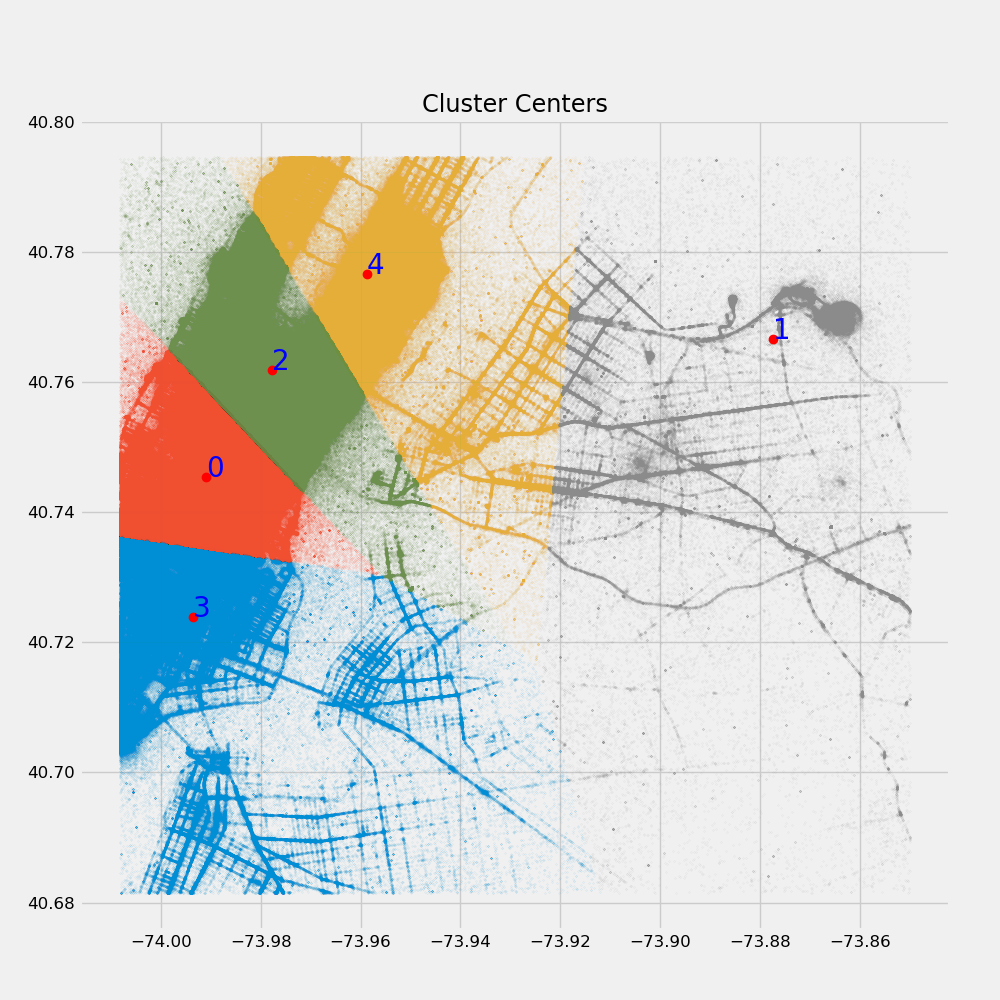
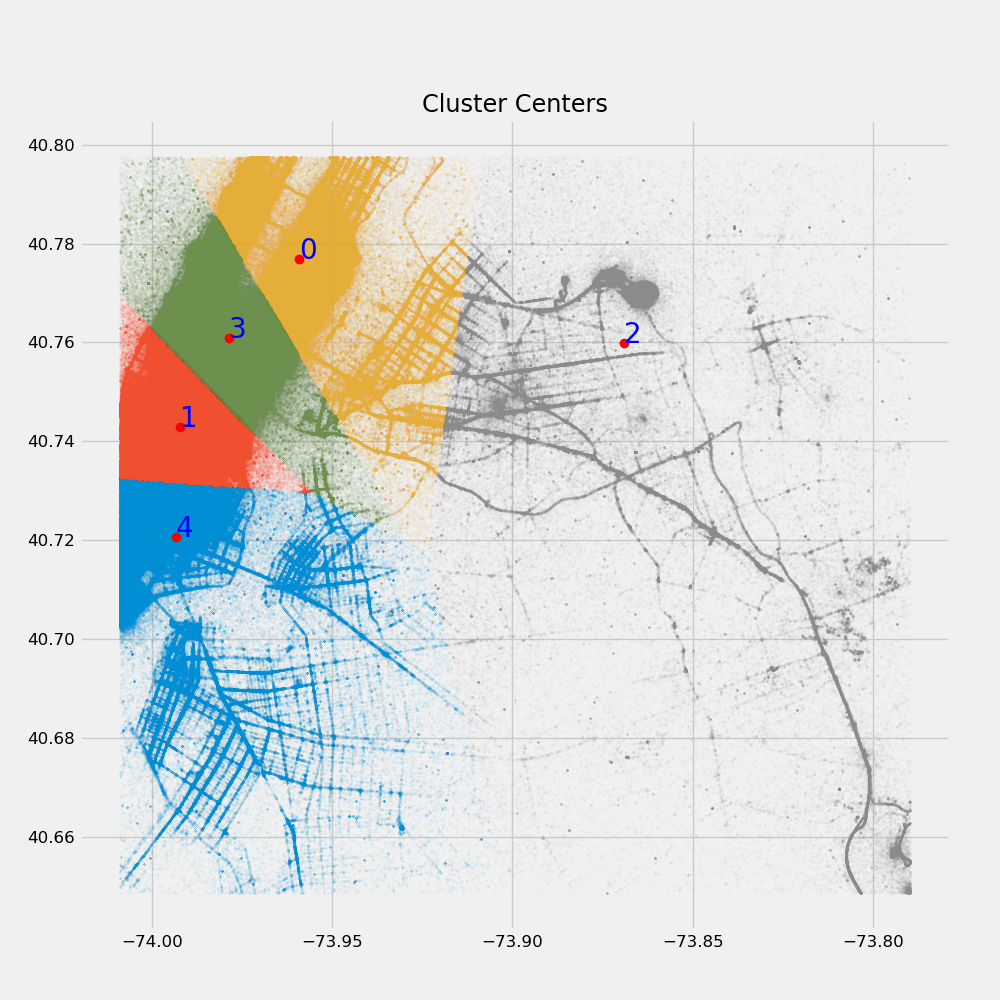
add number of each cluster

diff --git a/Hw1/Q1/Q1_dropout.py b/Hw1/Q1/Q1_dropout.py
@@ -1,0 +1,70 @@
+import numpy as np
+import pandas as pd
+import matplotlib
+import matplotlib.pyplot as plt
+from sklearn.cluster import KMeans
+from sklearn.neighbors import KNeighborsClassifier
+
+matplotlib.style.use('fivethirtyeight')
+matplotlib.rcParams['font.size'] = 12
+matplotlib.rcParams['figure.figsize'] = (10,10)
+
+taxiDB1 = pd.read_csv('yellow_tripdata_2009-01.csv')
+taxiDB2 = pd.read_csv('yellow_tripdata_2009-02.csv')
+taxiDB3 = pd.read_csv('yellow_tripdata_2009-03.csv')
+
+allLat  = np.array(list(taxiDB1['End_Lat'])+ list(taxiDB2['End_Lat'])+ list(taxiDB3['End_Lat']))
+allLong = np.array(list(taxiDB1['End_Lon'])+ list(taxiDB2['End_Lon'])+ list(taxiDB3['End_Lon']))
+
+longLimits = [np.percentile(allLong, 2.5), np.percentile(allLong, 97.5)]
+latLimits  = [np.percentile(allLat , 2.5), np.percentile(allLat , 97.5)]
+
+print(str(longLimits)+" "+str(latLimits))
+
+taxiDB1 = taxiDB1[(taxiDB1['End_Lat']   >= latLimits[0] ) & (taxiDB1['End_Lat']   <= latLimits[1]) ]
+taxiDB1 = taxiDB1[(taxiDB1['End_Lon']  >= longLimits[0]) & (taxiDB1['End_Lon']  <= longLimits[1])]
+taxiDB1 = taxiDB1.reset_index(drop=True)
+
+taxiDB2 = taxiDB2[(taxiDB2['End_Lat']   >= latLimits[0] ) & (taxiDB2['End_Lat']   <= latLimits[1]) ]
+taxiDB2 = taxiDB2[(taxiDB2['End_Lon']  >= longLimits[0]) & (taxiDB2['End_Lon']  <= longLimits[1])]
+taxiDB2 = taxiDB2.reset_index(drop=True)
+
+taxiDB3 = taxiDB3[(taxiDB3['End_Lat']   >= latLimits[0] ) & (taxiDB3['End_Lat']   <= latLimits[1]) ]
+taxiDB3 = taxiDB3[(taxiDB3['End_Lon']  >= longLimits[0]) & (taxiDB3['End_Lon']  <= longLimits[1])]
+taxiDB3 = taxiDB3.reset_index(drop=True)
+
+allLat  = np.array(list(taxiDB1['End_Lat'])+ list(taxiDB2['End_Lat'])+ list(taxiDB3['End_Lat']))
+allLong = np.array(list(taxiDB1['End_Lon'])+ list(taxiDB2['End_Lon'])+ list(taxiDB3['End_Lon']))
+
+
+#####
+plt.figure(figsize = (10,10))
+plt.plot(allLong,allLat,'.', alpha = 0.4, markersize = 0.05)
+plt.savefig("Plot rides_Dropout")
+
+loc_df = pd.DataFrame()
+loc_df['longitude'] = allLong
+loc_df['latitude'] = allLat
+
+kmeans = KMeans(n_clusters=10).fit(loc_df)
+loc_df['label'] = kmeans.labels_
+
+#loc_df = loc_df.sample(200000)
+plt.figure(figsize = (10,10))
+for label in loc_df.label.unique():
+    plt.plot(loc_df.longitude[loc_df.label == label],loc_df.latitude[loc_df.label == label],'.', alpha = 0.3, markersize = 0.3)
+
+plt.title('Clusters of New York_Dropout')
+plt.savefig("Clusters of New York_Dropout")
+
+###
+fig,ax = plt.subplots(figsize = (10,10))
+for label in loc_df.label.unique():
+    ax.plot(loc_df.longitude[loc_df.label == label],loc_df.latitude[loc_df.label == label],'.', alpha = 0.3, markersize = 0.3)
+    ax.plot(kmeans.cluster_centers_[label,0],kmeans.cluster_centers_[label,1],'o', color = 'r')
+    ax.annotate(label, (kmeans.cluster_centers_[label,0],kmeans.cluster_centers_[label,1]), color = 'b', fontsize = 20)
+ax.set_title('Cluster Centers_Dropout')
+plt.savefig("Cluster Centers_Dropout")
+
+####
+print(loc_df['label'].value_counts())

diff --git a/Hw1/Q1/Q1_pickup.py b/Hw1/Q1/Q1_pickup.py
@@ -1,0 +1,70 @@
+import numpy as np
+import pandas as pd
+import matplotlib
+import matplotlib.pyplot as plt
+from sklearn.cluster import KMeans
+
+matplotlib.style.use('fivethirtyeight')
+matplotlib.rcParams['font.size'] = 12
+matplotlib.rcParams['figure.figsize'] = (10,10)
+
+taxiDB1 = pd.read_csv('yellow_tripdata_2009-01.csv')
+taxiDB2 = pd.read_csv('yellow_tripdata_2009-02.csv')
+taxiDB3 = pd.read_csv('yellow_tripdata_2009-03.csv')
+
+allLat  = np.array(list(taxiDB1['Start_Lat'])+ list(taxiDB2['Start_Lat'])+ list(taxiDB3['Start_Lat']))
+allLong = np.array(list(taxiDB1['Start_Lon'])+ list(taxiDB2['Start_Lon'])+ list(taxiDB3['Start_Lon']))
+
+longLimits = [np.percentile(allLong, 2.5), np.percentile(allLong, 97.5)]
+latLimits  = [np.percentile(allLat , 2.5), np.percentile(allLat , 97.5)]
+
+print(str(longLimits)+" "+str(latLimits))
+
+taxiDB1 = taxiDB1[(taxiDB1['Start_Lat']   >= latLimits[0] ) & (taxiDB1['Start_Lat']   <= latLimits[1]) ]
+taxiDB1 = taxiDB1[(taxiDB1['Start_Lon']  >= longLimits[0]) & (taxiDB1['Start_Lon']  <= longLimits[1])]
+taxiDB1 = taxiDB1.reset_index(drop=True)
+
+taxiDB2 = taxiDB2[(taxiDB2['Start_Lat']   >= latLimits[0] ) & (taxiDB2['Start_Lat']   <= latLimits[1]) ]
+taxiDB2 = taxiDB2[(taxiDB2['Start_Lon']  >= longLimits[0]) & (taxiDB2['Start_Lon']  <= longLimits[1])]
+taxiDB2 = taxiDB2.reset_index(drop=True)
+
+taxiDB3 = taxiDB3[(taxiDB3['Start_Lat']   >= latLimits[0] ) & (taxiDB3['Start_Lat']   <= latLimits[1]) ]
+taxiDB3 = taxiDB3[(taxiDB3['Start_Lon']  >= longLimits[0]) & (taxiDB3['Start_Lon']  <= longLimits[1])]
+taxiDB3 = taxiDB3.reset_index(drop=True)
+
+allLat  = np.array(list(taxiDB1['Start_Lat'])+ list(taxiDB2['Start_Lat'])+ list(taxiDB3['Start_Lat']))
+allLong = np.array(list(taxiDB1['Start_Lon'])+ list(taxiDB2['Start_Lon'])+ list(taxiDB3['Start_Lon']))
+
+
+#####
+plt.figure(figsize = (10,10))
+plt.plot(allLong,allLat,'.', alpha = 0.4, markersize = 0.05)
+plt.savefig("Plot rides")
+
+loc_df = pd.DataFrame()
+loc_df['longitude'] = allLong
+loc_df['latitude'] = allLat
+
+kmeans = KMeans(n_clusters=10).fit(loc_df)
+loc_df['label'] = kmeans.labels_
+
+#loc_df = loc_df.sample(200000)
+plt.figure(figsize = (10,10))
+for label in loc_df.label.unique():
+    plt.plot(loc_df.longitude[loc_df.label == label],loc_df.latitude[loc_df.label == label],'.', alpha = 0.3, markersize = 0.3)
+
+plt.title('Clusters of New York')
+plt.savefig("Clusters of New York")
+
+###
+fig,ax = plt.subplots(figsize = (10,10))
+for label in loc_df.label.unique():
+    ax.plot(loc_df.longitude[loc_df.label == label],loc_df.latitude[loc_df.label == label],'.', alpha = 0.3, markersize = 0.3)
+    ax.plot(kmeans.cluster_centers_[label,0],kmeans.cluster_centers_[label,1],'o', color = 'r')
+    ax.annotate(label, (kmeans.cluster_centers_[label,0],kmeans.cluster_centers_[label,1]), color = 'b', fontsize = 20)
+ax.set_title('Cluster Centers')
+plt.savefig("Cluster Centers")
+
+####
+
+print(loc_df['label'].value_counts())
